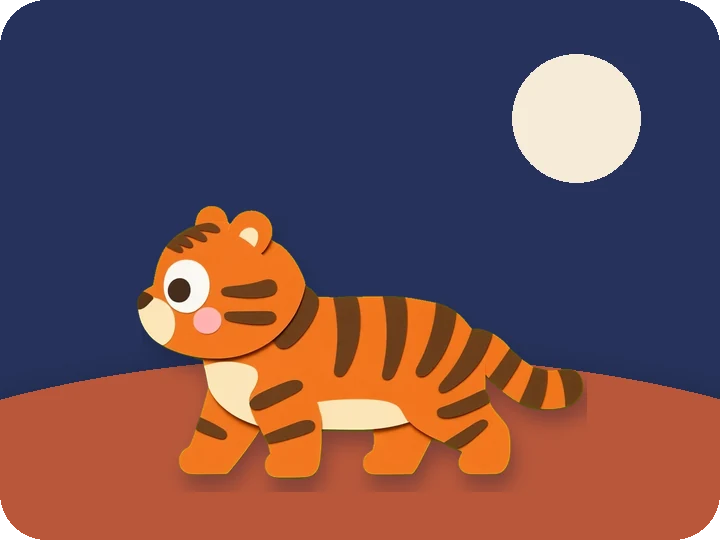
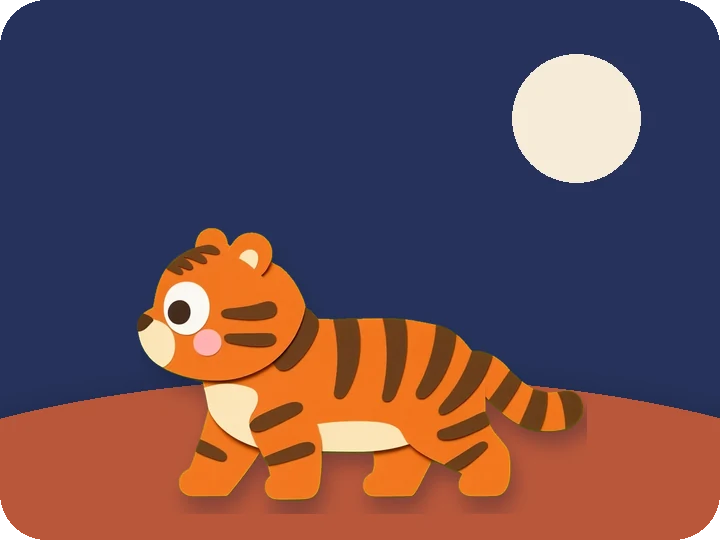
홈 썸네일: 새 동화 6편 사각 종이 타일 추가, 팥죽 호랑이 키우고 브레멘·늑대 잘림 보정
Claude-Session: https://claude.ai/code/session_01LNk5ZqxZZjA2bBcEAsTsQ1

Changed region(s): [[0.0, 0.3556, 1.0, 0.9778]]

diff --git a/assets/thumbs/tiles.js b/assets/thumbs/tiles.js
@@ -1,2 +1,2 @@
 /* tools/app/make_tiles.py 가 생성: 사각 종이 썸네일(<id>_tile.webp)이 있는 동화 */
-window.TILES = ["ant_grasshopper", "bremen", "fox_crane", "frog", "goldilocks", "lion_mouse", "patjuk", "rabbit", "red_hood", "sun_wind", "sunmoon", "three_pigs", "turnip", "ugly_duckling", "wolf_goats"];
+window.TILES = ["ant_grasshopper", "bremen", "cinderella", "fox_crane", "frog", "goldilocks", "hansel", "heungbu", "kongjwi", "lion_mouse", "magic_jar", "magpie", "patjuk", "rabbit", "red_hood", "sun_wind", "sunmoon", "three_pigs", "turnip", "ugly_duckling", "wolf_goats"];

diff --git a/tools/app/make_tiles.py b/tools/app/make_tiles.py
@@ -10,7 +10,7 @@ def hx(s): return tuple(int(s[i:i + 2], 16) for i in (1, 3, 5))
 
 # id: (판 색, 언덕 색, 해·달(색, 가운데x, 가운데y, 반지름 — 화면 비율), [(그림, 가운데x, 높이 비율, 뒤집기)], 땅 높이 비율)
 SPEC = {
- 'patjuk':   ('#26325A', '#B9573A', ('#F6ECD8', .80, .22, .09), [('tiger_stand', .5, .72, 0)], .80),
+ 'patjuk':   ('#26325A', '#B9573A', ('#F6ECD8', .80, .22, .09), [('tiger_stand', .5, .90, 0)], .84),
  'frog':     ('#7FB7A4', '#4F8F6B', ('#F6ECD8', .22, .22, .08), [('frog_ox_stand', .62, .58, 0), ('frog_mom', .28, .56, 0)], .80),
  'rabbit':   ('#9CCB86', '#5E9A4F', ('#FFE08A', .84, .20, .09), [('rab_turtle_walk', .30, .34, 0), ('rab_rabbit_run', .66, .64, 0)], .78),
  'sunmoon':  ('#2E2F63', '#6E5DA8', ('#F6ECD8', .50, .26, .13), [('sm_moon_boy2', .27, .62, 0), ('sm_sun_girl2', .73, .62, 0)], .82),
@@ -19,12 +19,18 @@ SPEC = {
  'lion_mouse': ('#F2B35E', '#9A6A3C', ('#FFF1C8', .20, .22, .10), [('lm_lion_stand', .46, .82, 0), ('lm_mouse_walk', .86, .22, 1)], .84),
  'fox_crane': ('#7FB79A', '#C9824E', None, [('fc_fox_stand', .32, .62, 0), ('fc_crane_sad', .74, .84, 1)], .84),
  'goldilocks': ('#F2C9A0', '#7BA36B', ('#FFF1C8', .80, .22, .09), [('gl_goldi_walk', .34, .84, 0), ('gl_bear_baby', .72, .70, 0)], .84),
- 'bremen':   ('#24305C', '#4B6A8A', ('#F6ECD8', .78, .24, .10), [('br_donkey', .26, .80, 0), ('br_dog_sing5', .55, .54, 0), ('br_cat_sing', .76, .34, 0), ('br_rooster', .90, .42, 0)], .84),
+ 'bremen':   ('#24305C', '#4B6A8A', ('#F6ECD8', .78, .24, .10), [('br_donkey', .24, .78, 0), ('br_dog_sing5', .50, .52, 0), ('br_cat_sing', .70, .33, 0), ('br_rooster', .85, .40, 0)], .84),
  'ant_grasshopper': ('#F2D06B', '#5E9A4F', ('#FFF6D8', .82, .20, .10), [('ag_ant_stand', .30, .66, 0), ('ag_hopper_play', .72, .70, 1)], .84),
  'ugly_duckling': ('#9CC8E6', '#5E8FB4', ('#FFF6D8', .84, .20, .08), [('ud_young', .30, .56, 0), ('ud_swan', .70, .80, 0)], .84),
  'three_pigs': ('#F3C6B0', '#8BB06A', ('#FFF1C8', .82, .20, .09), [('tp_pig1_base', .22, .66, 0), ('tp_pig2_base', .50, .70, 0), ('tp_pig3_base', .78, .74, 0)], .86),
- 'wolf_goats': ('#AFC8A0', '#6B8E5B', ('#F6ECD8', .20, .22, .09), [('wg_kid1_joy', .26, .56, 0), ('wg_mama_warn', .58, .78, 0), ('wg_wolf_knock', .86, .62, 1)], .86),
+ 'wolf_goats': ('#AFC8A0', '#6B8E5B', ('#F6ECD8', .20, .22, .09), [('wg_kid1_joy', .26, .56, 0), ('wg_mama_warn', .58, .78, 0), ('wg_wolf_knock', .82, .62, 1)], .86),
  'red_hood': ('#E8A596', '#5E8F5B', ('#FFF1C8', .82, .20, .09), [('rh_hood_walk', .36, .86, 0), ('rh_wolf_peek', .78, .62, 1)], .86),
+ 'magic_jar': ('#F2D58A', '#8B6B4A', ('#FFF6D8', .82, .20, .09), [('mj_farmer_amaze', .34, .84, 0), ('mj_fwife', .70, .80, 0)], .84),
+ 'kongjwi':  ('#F3C2CF', '#7BA36B', ('#FFF1C8', .82, .20, .09), [('kj_kong_bride', .32, .86, 0), ('kj_toad_idle', .72, .46, 0)], .84),
+ 'heungbu':  ('#9CC8E6', '#8BB06A', ('#FFF6D8', .84, .20, .09), [('hb_heung_glad', .36, .86, 0), ('hb_swallow_fly', .74, .26, 0)], .84),
+ 'magpie':   ('#2F4A6B', '#6B8E5B', ('#F6ECD8', .82, .22, .10), [('mg_scholar_walk', .66, .86, 0), ('mg_mag_mom_sit', .32, .56, 1)], .84),
+ 'hansel':   ('#8FAE72', '#6B4E3A', ('#FFF1C8', .82, .20, .09), [('hg_hans_joy', .34, .84, 0), ('hg_gret_clever', .68, .82, 0)], .84),
+ 'cinderella': ('#B9A4DC', '#5E7FB4', ('#FFF6D8', .82, .20, .09), [('cd_cind_gown', .38, .88, 0), ('cd_mouse', .78, .40, 1)], .84),
 }
 
 def shadow(im, dx=0, dy=10, blur=12, op=.30):
@@ -69,3 +75,4 @@ ids = sys.argv[1:] or list(SPEC)
 for t in ids:
     tile(t); print('ok', t)
 open(os.path.join(OUT, 'tiles.js'), 'w').write('/* tools/app/make_tiles.py 가 생성: 사각 종이 썸네일(<id>_tile.webp)이 있는 동화 */\nwindow.TILES = ' + json.dumps(sorted(SPEC)) + ';\n')
+open(os.path.join(OUT, 'tiles.json'), 'w').write(json.dumps(sorted(SPEC), ensure_ascii=False))
